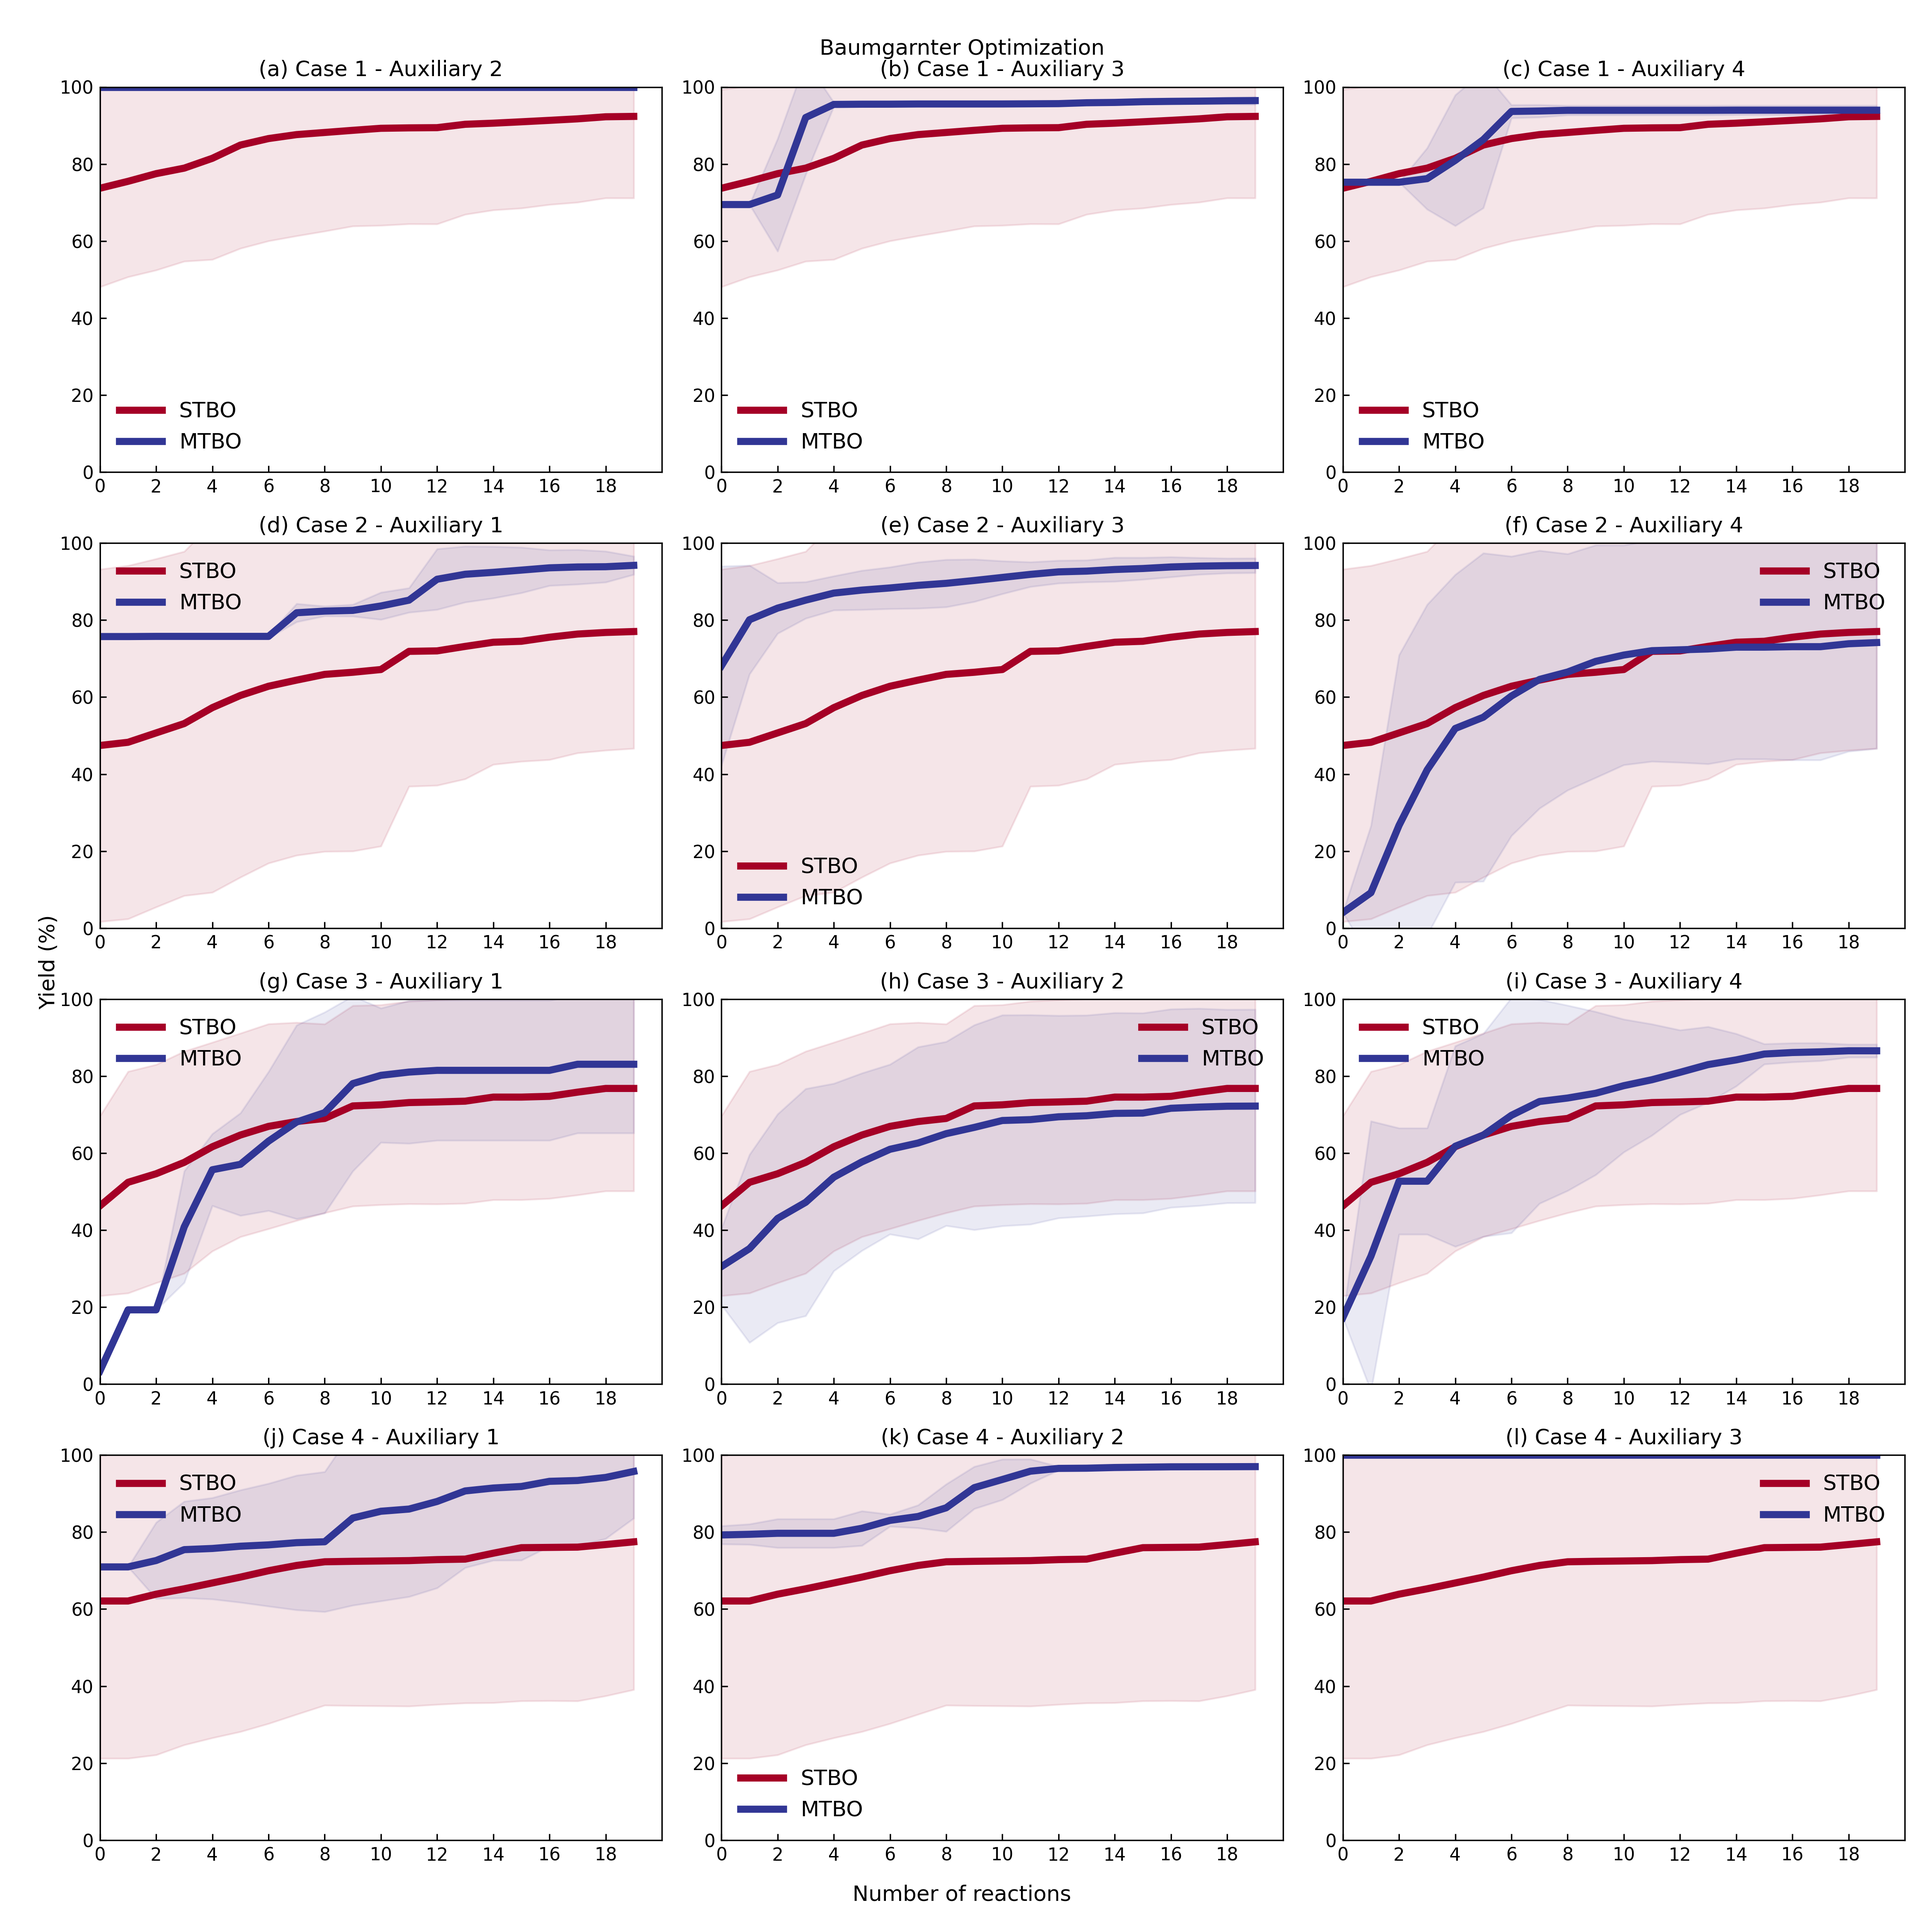
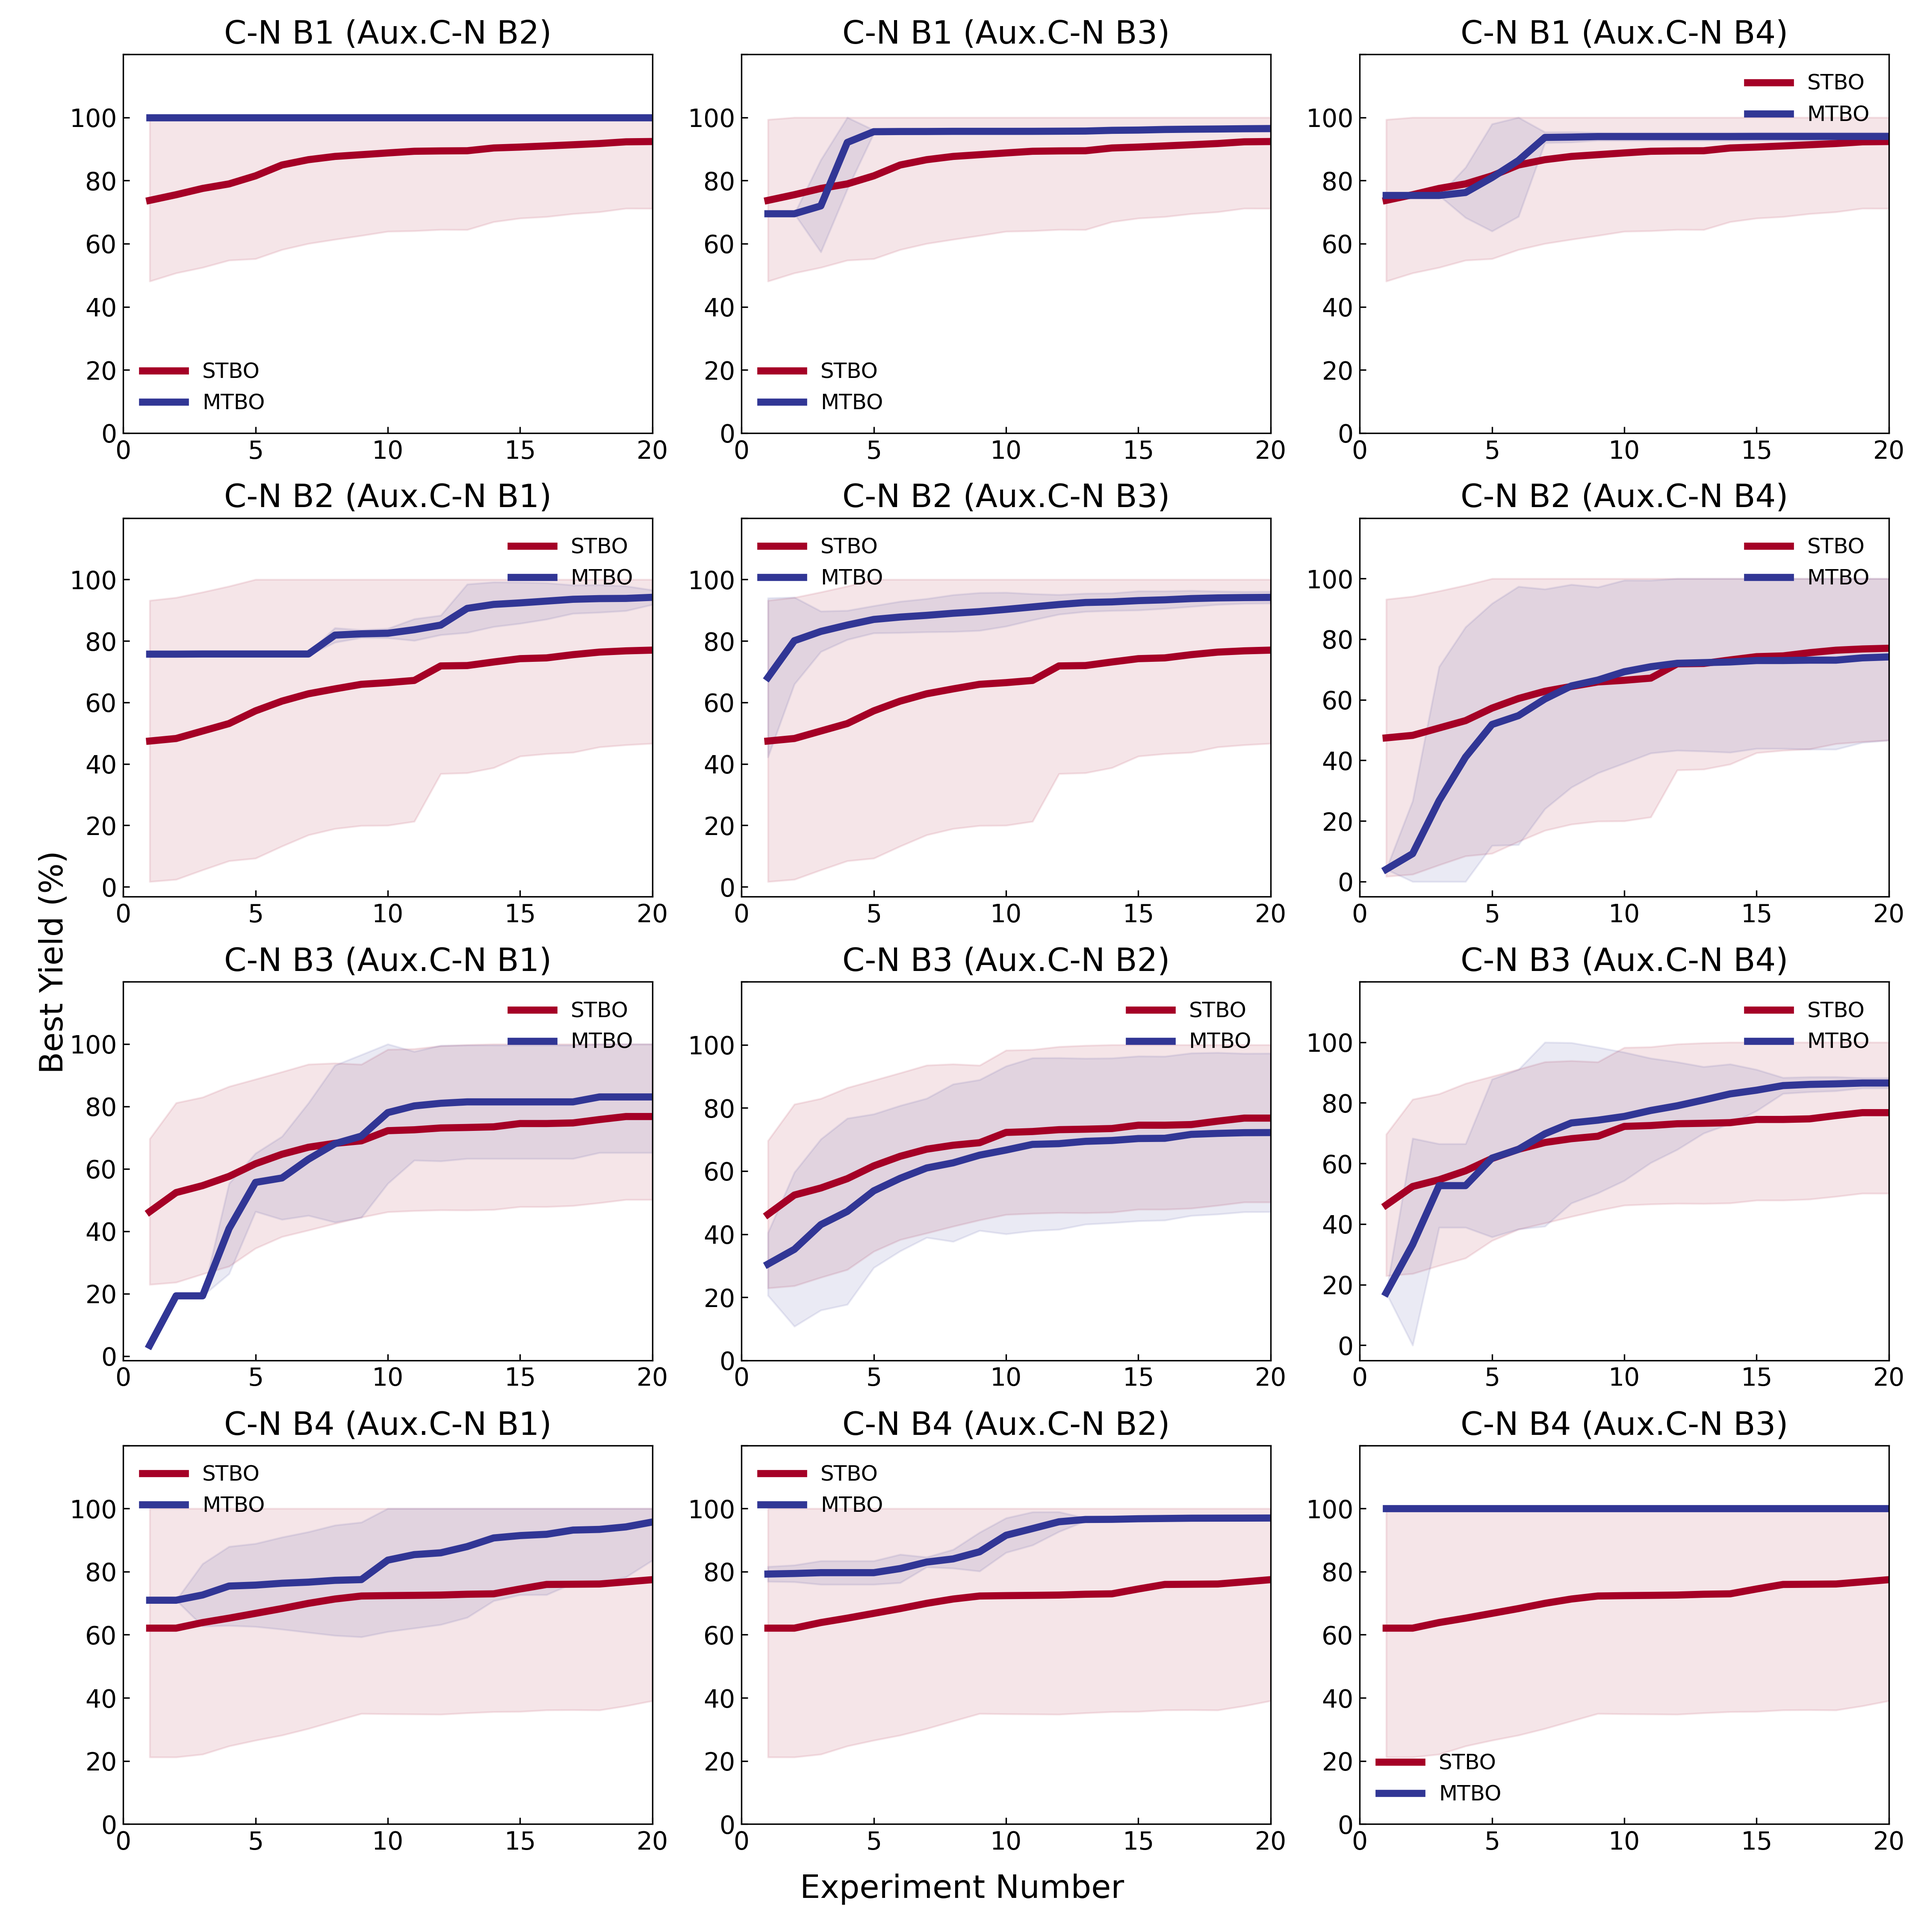
Revise C-N figures

diff --git a/multitask/visualization/cn_figures.py b/multitask/visualization/cn_figures.py
@@ -4,18 +4,17 @@ Make figures for publication
 from .plots import get_wandb_run_dfs, make_comparison_plot
 from summit import *
 import wandb
+import numpy as np
 import matplotlib.pyplot as plt
 from typing import Dict, List, Optional
 from pathlib import Path
-import string
-
 import logging
 
 
 logger = logging.getLogger(__name__)
 
 
-def baumgartner_cn_auxiliary_baumgartner_cn(
+def baumgartner_cn_auxiliary_one_baumgartner_cn(
     num_iterations: int = 20,
     include_tags: Optional[List[str]] = None,
     filter_tags: Optional[List[str]] = None,
@@ -33,12 +32,12 @@ def baumgartner_cn_auxiliary_baumgartner_cn(
     fig.subplots_adjust(wspace=0.2, hspace=0.5)
     k = 1
     axis_fontsize = 14
+    heading_fontsize = 18
 
     # Make subplots for each case
     logger.info(
         "Making plots for Baumgartner C-N optimization with auxiliary of Baumgartner C-N"
     )
-    letters = list(string.ascii_lowercase)
     for i in range(1, 5):
         # Filter STBO data
         stbo_dfs = get_wandb_run_dfs(
@@ -81,17 +80,144 @@ def baumgartner_cn_auxiliary_baumgartner_cn(
                     output_name="yld_best",
                     ax=ax,
                 )
-                ax.set_title(f"({letters[k-1]}) Case {i} - Auxiliary {j}")
-                ax.set_ylim(0, 100)
+                ax.tick_params("both", labelsize=axis_fontsize)
+                ax.set_title(
+                    f"C-N B{i} (Aux.C-N B{j})",
+                    fontsize=heading_fontsize,
+                )
+                xlabels = np.arange(0, 21, 5)
+                ax.set_xticks(xlabels)
+                ax.set_xticklabels(xlabels, fontsize=axis_fontsize)
+                ax.set_yticks([0, 20, 40, 60, 80, 100, 120])
+                ax.set_yticklabels([0, 20, 40, 60, 80, 100, ""], fontsize=axis_fontsize)
+                ax.tick_params(direction="in")
                 k += 1
 
     # Format plot
-    fig.suptitle("Baumgarnter Optimization")
-    fig.supxlabel("Number of reactions")
-    fig.supylabel("Yield (%)")
+    # fig.suptitle("Baumgarnter Optimization", fontsize=heading_fontsize)
+    fig.supxlabel("Experiment Number", fontsize=heading_fontsize)
+    fig.supylabel("Best Yield (%)", fontsize=heading_fontsize)
     fig.tight_layout()
     figure_dir = Path(figure_dir)
     fig.savefig(
         figure_dir / "baumgartner_cn_baumgartner_cn_one_cotraining_optimization.png",
         dpi=300,
+    )
+
+
+def baumgartner_cn_auxiliary_all_baumgartner_cn(
+    num_iterations: int = 20,
+    include_tags: Optional[List[str]] = None,
+    filter_tags: Optional[List[str]] = None,
+    only_finished_runs: bool = True,
+    wandb_entity: Optional[str] = None,
+    wandb_project: Optional[str] = "multitask",
+    figure_dir: Optional[str] = "figures",
+):
+    """Make plots for Baumgartner C-N optimization with auxiliary of Baumgartner C-N."""
+    # Setup wandb api
+    api = wandb.Api()
+
+    # Setup figure
+    fig = plt.figure(figsize=(15, 5))
+    fig.subplots_adjust(wspace=0.2, hspace=0.5)
+    axis_fontsize = 14
+    heading_fontsize = 18
+
+    # Make subplots for each case
+    logger.info(
+        "Making plots for Baumgartner C-N optimization with auxiliary of Baumgartner C-N"
+    )
+    for i in range(1, 5):
+        # Filter STBO data
+        stbo_dfs = get_wandb_run_dfs(
+            api,
+            wandb_entity=wandb_entity,
+            wandb_project=wandb_project,
+            model_name=f"baumgartner_cn_case_{i}",
+            strategy="STBO",
+            include_tags=include_tags,
+            filter_tags=filter_tags,
+            only_finished_runs=only_finished_runs,
+            num_iterations=num_iterations,
+        )
+
+        mtbo_dfs = get_wandb_run_dfs(
+            api,
+            wandb_entity=wandb_entity,
+            wandb_project=wandb_project,
+            model_name=f"baumgartner_cn_case_{i}",
+            strategy="MTBO",
+            include_tags=include_tags,
+            filter_tags=filter_tags,
+            only_finished_runs=only_finished_runs,
+            num_iterations=num_iterations,
+            extra_filters={
+                "config.ct_dataset_names": [
+                    f"baumgartner_cn_case_{j}" for j in range(1, 5) if i != j
+                ],
+            },
+        )
+        logger.info(
+            f"Found {len(stbo_dfs)} STBO and {len(mtbo_dfs)} MTBO runs for Baumgartner C-N case {i} with auxiliary of all Baumgartner C-N"
+        )
+
+        # # Make subplot
+        ax = fig.add_subplot(1, 4, i)
+        make_comparison_plot(
+            dict(results=stbo_dfs, label="STBO", color="#a50026"),
+            dict(results=mtbo_dfs, label="MTBO", color="#313695"),
+            output_name="yld_best",
+            ax=ax,
+        )
+        aux_names = ",".join([f"B{j}" for j in range(1, 5) if i != j])
+        ax.set_title(
+            f"C-N B{i} (Aux. C-N {aux_names})",
+            fontsize=heading_fontsize,
+        )
+        xlabels = np.arange(0, 21, 5)
+        ax.set_xticks(xlabels)
+        ax.set_xticklabels(xlabels, fontsize=axis_fontsize)
+        ax.set_yticks([0, 20, 40, 60, 80, 100, 120])
+        ax.set_yticklabels([0, 20, 40, 60, 80, 100, ""], fontsize=axis_fontsize)
+        ax.tick_params(direction="in")
+
+    # Format plot
+    # fig.suptitle("Baumgarnter Optimization", fontsize=heading_fontsize)
+    fig.supxlabel("Experiment Number", fontsize=heading_fontsize)
+    fig.supylabel("Best Yield (%)", fontsize=heading_fontsize)
+    fig.tight_layout()
+    figure_dir = Path(figure_dir)
+    fig.savefig(
+        figure_dir / "baumgartner_cn_baumgartner_cn_all_cotraining_optimization.png",
+        dpi=300,
+    )
+
+
+def all_cn(
+    num_iterations: int = 20,
+    include_tags: Optional[List[str]] = None,
+    filter_tags: Optional[List[str]] = None,
+    only_finished_runs: bool = True,
+    wandb_entity: Optional[str] = None,
+    wandb_project: Optional[str] = "multitask",
+    figure_dir: Optional[str] = "figures",
+):
+    baumgartner_cn_auxiliary_one_baumgartner_cn(
+        num_iterations=num_iterations,
+        include_tags=include_tags,
+        filter_tags=filter_tags,
+        only_finished_runs=only_finished_runs,
+        wandb_entity=wandb_entity,
+        wandb_project=wandb_project,
+        figure_dir=figure_dir,
+    )
+    baumgartner_cn_auxiliary_all_baumgartner_cn(
+        num_iterations=num_iterations,
+        include_tags=include_tags,
+        filter_tags=filter_tags,
+        only_finished_runs=only_finished_runs,
+        wandb_entity=wandb_entity,
+        wandb_project=wandb_project,
+        figure_dir=figure_dir,
     )

diff --git a/multitask/visualization/plots.py b/multitask/visualization/plots.py
@@ -16,12 +16,16 @@ def make_average_plot(
     yields = np.array(yields)
     mean_yield = np.mean(yields, axis=0)
     std_yield = np.std(yields, axis=0)
-    x = np.arange(0, len(mean_yield), 1).astype(int)
+    x = np.arange(1, len(mean_yield) + 1, 1).astype(int)
     ax.plot(x, mean_yield, label=label, linewidth=4, c=color)
+    top = mean_yield + 1.96 * std_yield
+    bottom = mean_yield - 1.96 * std_yield
+    bottom = np.clip(bottom, 0, 100)
+    top = np.clip(top, 0, 100)
     ax.fill_between(
         x,
-        mean_yield - 1.96 * std_yield,
-        mean_yield + 1.96 * std_yield,
+        bottom,
+        top,
         alpha=0.1,
         color=color,
     )

diff --git a/multitask/visualization/__init__.py b/multitask/visualization/__init__.py
@@ -7,7 +7,9 @@ app.command()(suzuki_figures.baumgartner_suzuki_auxiliary_reizman_suzuki)
 app.command()(suzuki_figures.reizman_suzuki_auxiliary_baumgartner_suzuki)
 app.command()(suzuki_figures.reizman_suzuki_auxiliary_reizman_suzuki)
 app.command()(suzuki_figures.all_suzuki)
-app.command()(cn_figures.baumgartner_cn_auxiliary_baumgartner_cn)
+app.command()(cn_figures.baumgartner_cn_auxiliary_one_baumgartner_cn)
+app.command()(cn_figures.baumgartner_cn_auxiliary_all_baumgartner_cn)
+app.command()(cn_figures.all_cn)
 
 if __name__ == "__main__":
     app()

diff --git a/multitask/visualization/suzuki_figures.py b/multitask/visualization/suzuki_figures.py
@@ -276,6 +276,11 @@ def reizman_suzuki_auxiliary_reizman_suzuki(
                     f"{reizman_case_to_name[i]} (Aux. {reizman_case_to_name[j]})",
                     fontsize=heading_fontsize,
                 )
+                ax.set_xlim(0, 20)
+                ax.tick_params("y", labelsize=axis_fontsize)
+                xlabels = np.arange(0, 21, 5)
+                ax.set_xticks(xlabels)
+                ax.set_xticklabels(xlabels, fontsize=axis_fontsize)
                 ax.set_ylim(0, 100)
                 k += 1
 
